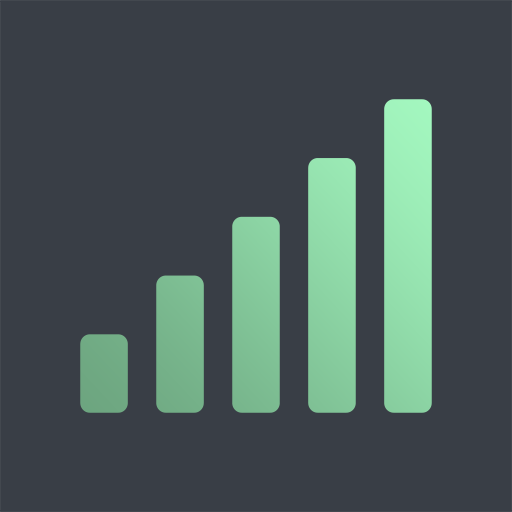
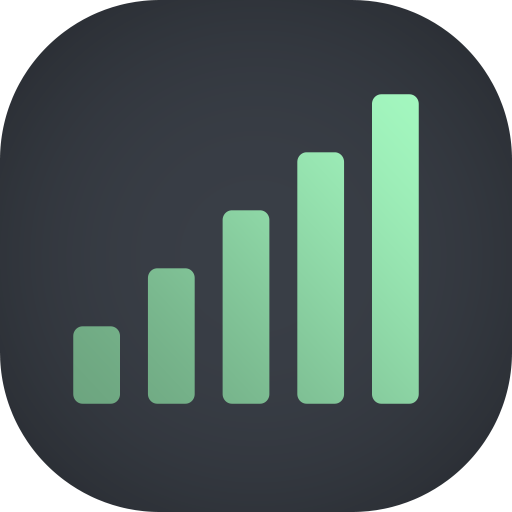
refactor: ui tweaks (#9)
* refactor: utilize small buttons everywhere

* refactor: decrease content margins

* refactor: disable toast pause on focus loss

* refactor: update icons

diff --git a/src/pages/Auth/index.tsx b/src/pages/Auth/index.tsx
@@ -61,10 +61,10 @@ export default function Auth(): JSX.Element {
 
   return (
     <div className="container text-light">
-      <h5 className="mb-5">Authorize</h5>
+      <h5 className="mb-4">Authorize</h5>
 
       <form onSubmit={handleSubmit}>
-        <div className="form-group mb-5">
+        <div className="form-group mb-4">
           <input type="text" className="hidden" autoComplete="application" readOnly />
           <label htmlFor="app-password">
             <strong>Enter password</strong>
@@ -85,11 +85,11 @@ export default function Auth(): JSX.Element {
           </small>
         </div>
 
-        <button type="submit" className="btn btn-primary" disabled={!password.length}>
+        <button type="submit" className="btn btn-sm btn-primary" disabled={!password.length}>
           Proceed <FontAwesomeIcon icon="sign-in-alt" />
         </button>
 
-        <button type="button" onClick={handleReset} className="btn btn-outline-primary ml-3">
+        <button type="button" onClick={handleReset} className="btn btn-sm btn-outline-primary ml-3">
           Reset <FontAwesomeIcon icon="undo-alt" />
         </button>
       </form>

diff --git a/src/pages/Faq/index.tsx b/src/pages/Faq/index.tsx
@@ -151,10 +151,13 @@ const entries: IFaqEntry[] = [
           You can support my work by voting for my delegate, or by donating to
           13679271214820914646L.
         </p>
-        <a className="btn btn-outline-primary mr-2" href="lisk://delegates/vote?votes=lemii">
+        <a className="btn btn-sm btn-outline-primary mr-3" href="lisk://delegates/vote?votes=lemii">
           Vote
         </a>{' '}
-        <a className="btn btn-outline-primary" href="lisk://wallet?recipient=13679271214820914646L">
+        <a
+          className="btn btn-sm btn-outline-primary"
+          href="lisk://wallet?recipient=13679271214820914646L"
+        >
           Donate
         </a>
       </div>
@@ -169,7 +172,8 @@ export default function Faq(): JSX.Element {
 
   return (
     <div className="container text-light">
-      <h5 className="mb-5">Frequently Asked Questions</h5>
+      <h5 className="mb-4">Frequently Asked Questions</h5>
+
       <div className="accordion" id="accordion">
         {entries.map((entry, index) => {
           const id = 'entry-' + index;

diff --git a/src/components/ServerForm/index.tsx b/src/components/ServerForm/index.tsx
@@ -142,7 +142,7 @@ export default function ServerForm({ form, setForm, handleSubmit }: IProps): JSX
 
       <button
         type="submit"
-        className="btn btn-primary"
+        className="btn btn-sm btn-primary"
         disabled={!form.ip || !form.label || form.version === '0'}
       >
         Save <FontAwesomeIcon icon="save" />

diff --git a/src/pages/AddNode/index.tsx b/src/pages/AddNode/index.tsx
@@ -38,7 +38,7 @@ export default function AddNode(): JSX.Element {
 
   return (
     <div className="container text-light">
-      <h5 className="mb-5">Add Node</h5>
+      <h5 className="mb-4">Add Node</h5>
 
       <ServerForm form={form} setForm={setForm} handleSubmit={handleSubmit} />
 

diff --git a/src/pages/NotFound/index.tsx b/src/pages/NotFound/index.tsx
@@ -7,7 +7,7 @@ export default function NotFound(): JSX.Element {
 
   return (
     <div className="container">
-      <h5 className="text-muted text-center mt-5">404 Not Found</h5>
+      <h5 className="text-muted text-center mt-4">404 Not Found</h5>
     </div>
   );
 }

diff --git a/src/App.tsx b/src/App.tsx
@@ -11,7 +11,8 @@ import { PasswordContext } from './contexts';
 toast.configure({
   draggable: false,
   position: 'bottom-center',
-  closeOnClick: true
+  closeOnClick: true,
+  pauseOnFocusLoss: false
 });
 
 export default function App() {
